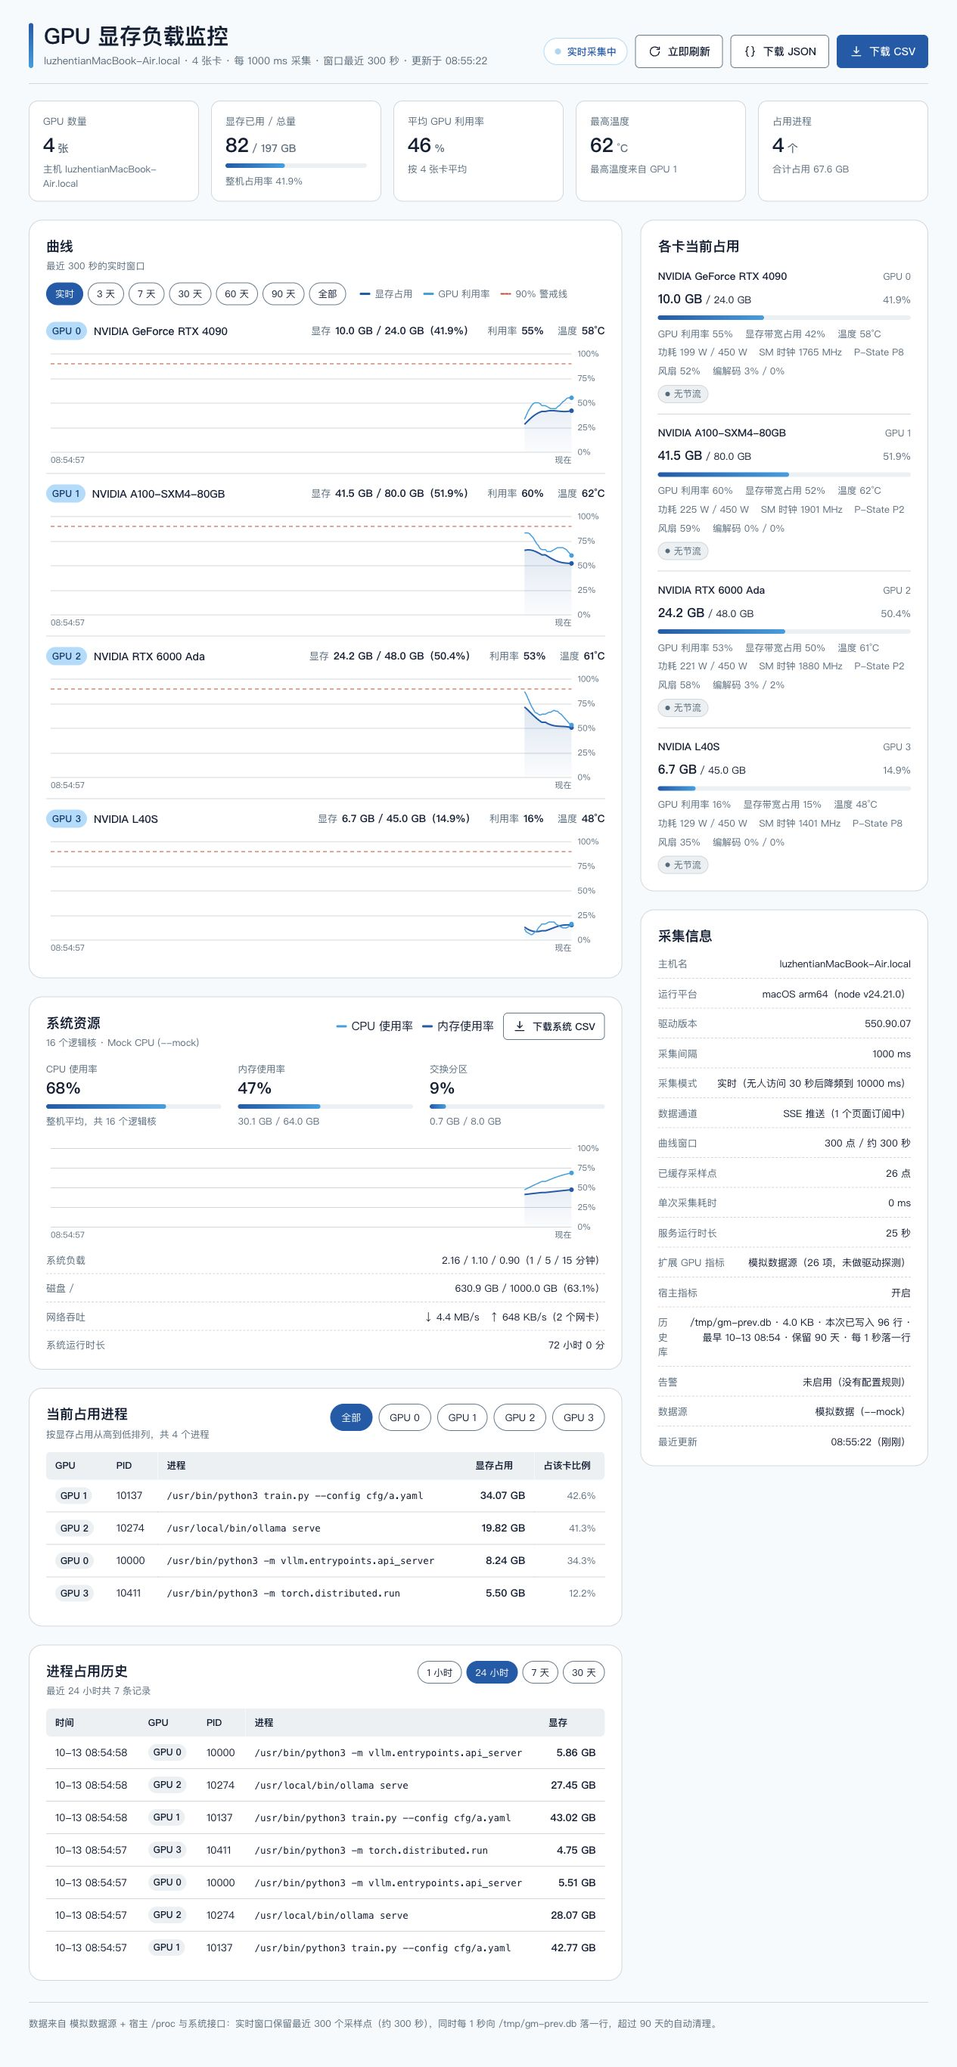
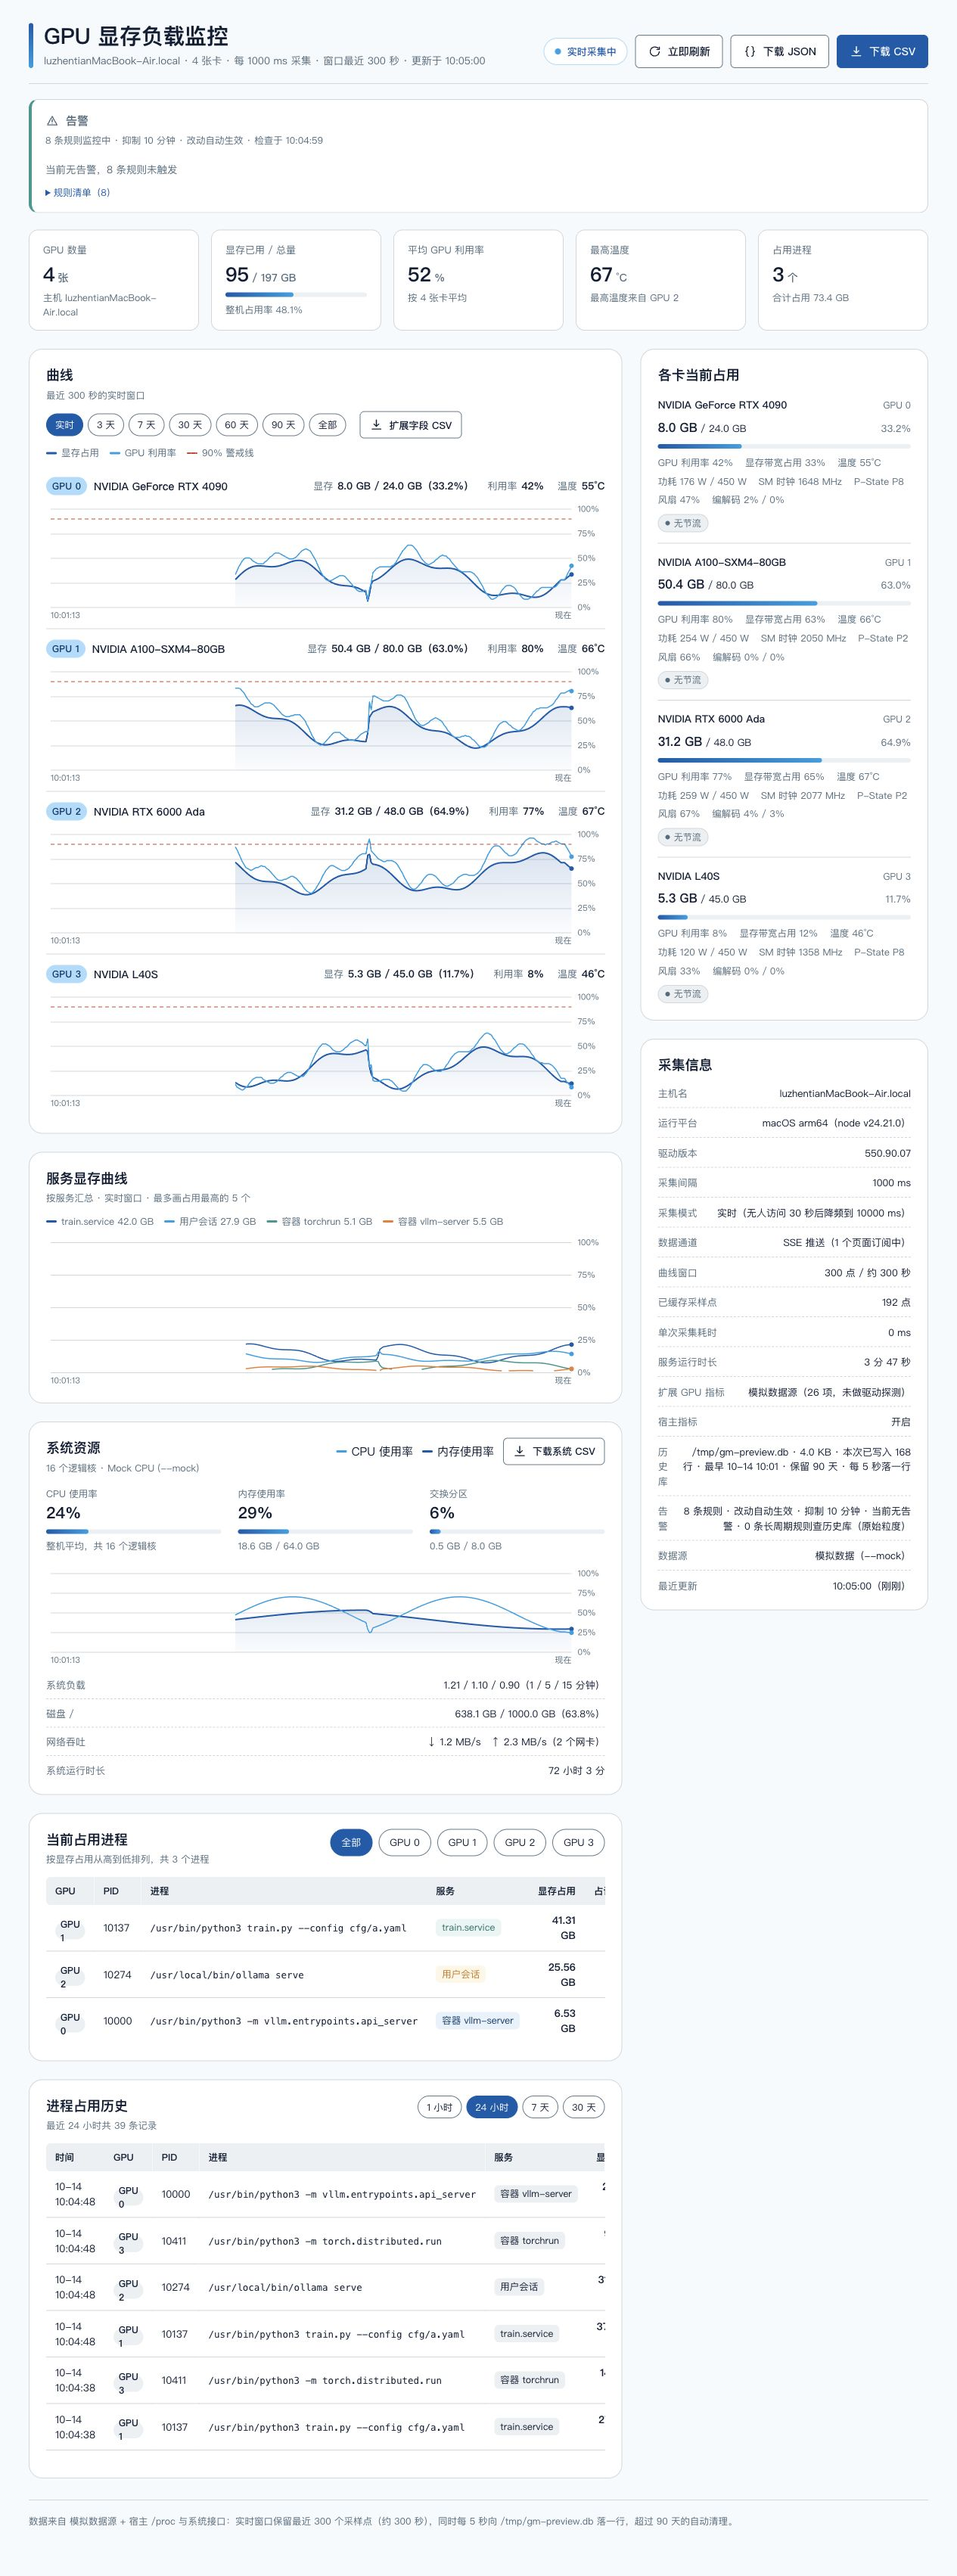
feat: 服务显存曲线；并修掉长区间曲线被挤到最右边的问题
- 新增「服务显存曲线」卡片：把占卡进程按服务（容器 / systemd 单元 / 用户会话）
  汇总成一条曲线，最多画占用最高的 5 个、其余并入「其他」，图例带当前值。
  服务退出时退到"最后一次见到的值"并标注，而不是显示 "--" 把整段信息丢掉。
  库里 service_sample 是上一轮修完才有数据的，这张图正是那次修复解锁的能力

- 修一处先前就有的渲染缺陷：曲线按"实时窗口 300 点"裁剪，横轴却按区间点数铺开，
  于是长区间被截成最后 300 点并挤到画布最右边。用 1501 个点的区间实测：
  时间轴左端显示的是"现在"（17:26）而不是区间起点（10:02），曲线只占右侧 20%
  还冲出边界。现在裁剪上限与横轴用同一个数

- 进程占用历史最多 200 条，不限高会把页面撑到上万像素（生产库已有 143 条），
  给表体加滚动上限

- 顺带修同类文案缺陷：告警未启用时页面显示"未启用（已关闭（--no-alerts））"，
  reason 自身不再带括号（和之前历史库那处是同一类问题）

- 更新 docs/preview.png：补上常驻告警面板、服务显存曲线、进程表的「服务」列

diff --git a/public/app.js b/public/app.js
@@ -39,6 +39,13 @@ const refs = {
   charts: $('charts'),
   chartsEmpty: $('charts-empty'),
   chartsSub: $('charts-sub'),
+  svcSub: $('svc-sub'),
+  svcLegend: $('svc-legend'),
+  svcChartWrap: $('svc-chart-wrap'),
+  svcCanvas: $('svc-canvas'),
+  svcEmpty: $('svc-empty'),
+  svcEmptyTitle: $('svc-empty-title'),
+  svcEmptyText: $('svc-empty-text'),
   rangePicker: $('range-picker'),
   emptyTitle: $('empty-title'),
   emptyText: $('empty-text'),
@@ -77,6 +84,9 @@ const state = {
   filter: 'all',
   series: new Map(),
   systemSeries: { t: [], cpu: [], mem: [] },
+  // 每一帧的原始服务汇总：服务的增删很频繁，边采边维护固定的曲线列表容易错位，
+  // 所以原样留着，渲染时再挑"这段时间占用最高的几个"
+  serviceRows: [],
   chartNodes: new Map(),
   chartSignature: '',
   cardNodes: new Map(),
@@ -251,7 +261,10 @@ function tempTone(temp) {
 
 /* ---------- 数据接入 ---------- */
 function trimToWindow(list) {
-  const overflow = list.t.length - state.windowSamples;
+  // 上限必须和 chartSlots() 用同一个数：横轴是按它铺开的，曲线却按实时窗口（300 点）裁的话，
+  // 长区间会被截成最后 300 点并挤到画布最右边——1501 个点的区间实测就是这样，
+  // 时间轴左端会显示"现在"而不是区间起点。
+  const overflow = list.t.length - chartSlots();
   if (overflow > 0) list.t.splice(0, overflow);
   return overflow;
 }
@@ -294,6 +307,12 @@ function appendSample(sample, { force = false } = {}) {
       series.cpu.splice(0, overflow);
       series.mem.splice(0, overflow);
     }
+  }
+  // 服务汇总按帧原样留着，渲染时再挑"这段时间占用最高的几个"——
+  // 服务的增删很频繁，边采边维护一份固定的曲线列表反而容易错位
+  state.serviceRows.push({ t: sample.t, services: sample.services || [] });
+  if (state.serviceRows.length > chartSlots()) {
+    state.serviceRows.splice(0, state.serviceRows.length - chartSlots());
   }
 }
 
@@ -917,6 +936,110 @@ function renderCharts() {
         { limit: HIGH_THRESHOLD, times: series.t },
       );
     }
+  }
+}
+
+/* ---------- 渲染：服务显存曲线 ---------- */
+const SERVICE_COLORS = ['#005bac', '#00a0e3', '#2f988c', '#ed7d31', '#8e6bbf', '#c87700'];
+const SERVICE_TOP_N = 5;
+const SERVICE_LABELS = { 未识别: '未识别（拿不到服务身份的进程）' };
+
+/**
+ * 从逐帧的服务汇总里挑出这段时间占用最高的几个，剩下的归入"其他"。
+ * 排序用区间内的峰值而不是当前值：某个服务刚降下来、但整段时间都吃得很凶，
+ * 按当前值排会被挤出去，反而看不出是谁在占。
+ */
+function buildServiceSeries(rows, topN = SERVICE_TOP_N) {
+  const peaks = new Map();
+  for (const row of rows) {
+    for (const entry of row.services) {
+      const share = entry.sharePct ?? 0;
+      if (share > (peaks.get(entry.service) ?? 0)) peaks.set(entry.service, share);
+    }
+  }
+  const names = [...peaks.entries()]
+    .sort((a, b) => b[1] - a[1])
+    .slice(0, topN)
+    .map(([name]) => name);
+
+  const lines = names.map((name, index) => ({
+    name,
+    color: SERVICE_COLORS[index % SERVICE_COLORS.length],
+    values: [],
+  }));
+  const other = { name: '其他', color: SERVICE_COLORS[SERVICE_COLORS.length - 1], values: [] };
+  const times = [];
+
+  for (const row of rows) {
+    times.push(row.t);
+    const byName = new Map(row.services.map((entry) => [entry.service, entry]));
+    let shown = 0;
+    for (const line of lines) {
+      const entry = byName.get(line.name);
+      const share = entry ? (entry.sharePct ?? 0) : null;
+      line.values.push(share);
+      if (share != null) shown += share;
+    }
+    // "其他"是"这一帧所有服务之和减去已画出来的部分"，这样它永远和总量对得上，
+    // 不会因为某个服务中途消失而算错
+    const total = row.services.reduce((sum, entry) => sum + (entry.sharePct ?? 0), 0);
+    const rest = total - shown;
+    other.values.push(rest > 0.05 ? rest : null);
+  }
+  if (other.values.some((value) => value != null)) lines.push(other);
+  return { lines, times };
+}
+
+function renderServiceChart() {
+  refs.svcSub.textContent = `按服务汇总 · ${rangeLabel()} · 最多画占用最高的 ${SERVICE_TOP_N} 个`;
+  const rows = state.serviceRows;
+  const usable = rows.filter((row) => row.services.length > 0);
+
+  if (usable.length === 0) {
+    refs.svcChartWrap.hidden = true;
+    refs.svcLegend.replaceChildren();
+    refs.svcEmpty.hidden = false;
+    refs.svcEmptyTitle.textContent = '还没有服务维度的数据';
+    refs.svcEmptyText.textContent = rows.length === 0
+      ? '曲线还没有采样点，稍等一两秒。'
+      : '这个区间里没有服务汇总记录。服务维度是后加的，更早写入的历史补不回来。';
+    return;
+  }
+  refs.svcChartWrap.hidden = false;
+  refs.svcEmpty.hidden = true;
+
+  const { lines, times } = buildServiceSeries(usable);
+  drawLines(refs.svcCanvas, lines, chartSlots(), { times });
+
+  // 图例带当前值：只给颜色分不清谁是谁。
+  // 服务可能在区间末尾已经退出了，这时退到"最后一次见到的值"并标注出来，
+  // 显示"--"等于把这条曲线整段的信息都丢了
+  const lastRow = usable[usable.length - 1];
+  const inLast = new Map(lastRow.services.map((entry) => [entry.service, entry]));
+  const lastSeen = new Map();
+  for (const row of usable) {
+    for (const entry of row.services) lastSeen.set(entry.service, entry);
+  }
+  const drawnNames = lines.filter((line) => line.name !== '其他').map((line) => line.name);
+  const shownMemInLast = drawnNames.reduce((sum, name) => sum + (inLast.get(name)?.memMiB || 0), 0);
+  const totalMemInLast = lastRow.services.reduce((sum, entry) => sum + (entry.memMiB || 0), 0);
+
+  refs.svcLegend.replaceChildren();
+  for (const line of lines) {
+    const item = document.createElement('span');
+    item.className = 'legend__item';
+    const swatch = document.createElement('span');
+    swatch.className = 'legend__swatch';
+    swatch.style.background = line.color;
+    const isOther = line.name === '其他';
+    const gone = !isOther && !inLast.has(line.name);
+    const entry = isOther ? null : (inLast.get(line.name) || lastSeen.get(line.name));
+    const mem = isOther ? Math.max(0, totalMemInLast - shownMemInLast) : (entry?.memMiB ?? null);
+    const text = document.createElement('span');
+    text.textContent = `${SERVICE_LABELS[line.name] || line.name} ${mem == null ? '--' : fmtGiB(mem)}`
+      + (gone ? '（区间末尾已退出）' : '');
+    item.append(swatch, text);
+    refs.svcLegend.appendChild(item);
   }
 }
 
@@ -1560,6 +1683,7 @@ function render() {
     : '扩展字段只存在历史库里，启用历史库后可用';
   renderKpis();
   renderCharts();
+  renderServiceChart();
   renderSystemCard();
   renderGpuCards();
   renderProcFilter();
@@ -1614,6 +1738,7 @@ function renderRangePicker() {
 function resetSeries() {
   state.series.clear();
   state.systemSeries = { t: [], cpu: [], mem: [] };
+  state.serviceRows = [];
   // 让曲线与卡片节点按新的数据重建，避免残留上一次的卡列表
   state.chartSignature = '';
   state.cardSignature = '';
@@ -1693,6 +1818,7 @@ window.addEventListener('resize', () => {
   window.clearTimeout(resizeTimer);
   resizeTimer = window.setTimeout(() => {
     renderCharts();
+    renderServiceChart();
     renderSystemCard();
   }, 180);
 });

diff --git a/public/index.html b/public/index.html
@@ -158,6 +158,24 @@
         </div>
       </section>
 
+      <section class="card" aria-labelledby="svc-h">
+        <div class="card__head card__head--stack">
+          <div>
+            <h2 class="card__title" id="svc-h">服务显存曲线</h2>
+            <p class="card__sub" id="svc-sub">按服务汇总，最多画占用最高的 5 个</p>
+          </div>
+          <div class="legend" id="svc-legend"></div>
+        </div>
+        <div class="chart__canvas-wrap chart__canvas-wrap--tall" id="svc-chart-wrap">
+          <canvas class="chart__canvas" id="svc-canvas" role="img" aria-label="按服务汇总的显存占用曲线"></canvas>
+        </div>
+        <div class="state-block" id="svc-empty" hidden>
+          <svg class="icon state-block__icon" aria-hidden="true"><use href="#icon-stack"></use></svg>
+          <p class="state-block__title" id="svc-empty-title">还没有服务维度的数据</p>
+          <p class="state-block__text" id="svc-empty-text"></p>
+        </div>
+      </section>
+
       <section class="card" aria-labelledby="sys-h">
         <div class="card__head">
           <div>
@@ -224,7 +242,7 @@
           </div>
           <div class="range-picker" id="proc-hist-range" role="group" aria-label="选择进程历史的时间范围"></div>
         </div>
-        <div class="table-wrap" id="proc-hist-wrap" hidden>
+        <div class="table-wrap table-wrap--scroll" id="proc-hist-wrap" hidden>
           <table class="table" id="proc-hist-table">
             <caption class="visually-hidden">历史进程占用记录，按时间从新到旧</caption>
             <thead>

diff --git a/src/alerts/runtime.js b/src/alerts/runtime.js
@@ -73,7 +73,7 @@ export function createAlertsRuntime({
 
     if (!loaded.config) {
       const reason = loaded.error
-        || (options.alerts === false ? '已关闭（--no-alerts）'
+        || (options.alerts === false ? '启动时带了 --no-alerts'
           : loaded.disabled ? '配置里 enabled=false'
             : loaded.missing ? `未找到 ${options.alertsPath}` : '未启用');
       if (!initial && runtime.engine) {
@@ -144,7 +144,8 @@ export function createAlertsRuntime({
         reason: runtime.engine
           ? null
           : (runtime.error
-            || (options.alerts === false ? '已关闭（--no-alerts）'
+            // 这条会被界面包在"未启用（…）"里，所以自身不要再带括号
+            || (options.alerts === false ? '启动时带了 --no-alerts'
               : runtime.missing ? `未找到 ${options.alertsPath}`
                 : runtime.disabled ? '配置里 enabled=false' : '未启用')),
         reloadedAt: runtime.reloadedAt,

diff --git a/public/styles.css b/public/styles.css
@@ -292,6 +292,7 @@ h1, h2, p, dl, dd, dt, figure { margin: 0; }
 .chart__stat[data-tone="danger"] b { color: var(--jf-color-danger); }
 
 .chart__canvas-wrap { position: relative; margin-top: 8px; height: 158px; }
+.chart__canvas-wrap--tall { height: 200px; }
 .chart__canvas { display: block; width: 100%; height: 100%; }
 
 /* ---------- 状态块 ---------- */
@@ -316,6 +317,8 @@ h1, h2, p, dl, dd, dt, figure { margin: 0; }
 
 /* ---------- 表格 ---------- */
 .table-wrap { margin-top: 14px; overflow-x: auto; }
+/* 进程历史最多能带到 200 条，不设上限的话这张表会把页面撑到上万像素高 */
+.table-wrap--scroll { max-height: 420px; overflow-y: auto; }
 .table { width: 100%; border-collapse: collapse; font-size: 13.5px; }
 .table thead th {
   position: sticky; top: 0; z-index: 1;

diff --git a/README.md b/README.md
@@ -7,6 +7,7 @@
 ## 功能
 
 - 一机多卡实时曲线：每张卡一条「显存占用」曲线 + 一条「GPU 利用率」曲线，窗口默认 300 点（约 5 分钟）
+- **服务显存曲线**：把占卡进程按服务（容器 / systemd 单元 / 用户会话）汇总成一条曲线，最多画占用最高的 5 个、其余并入「其他」。一张卡被多个服务共用时，这张图能回答"是谁在什么时候把显存吃上去的"，比整卡百分比有用得多
 - 当前占用：整机显存已用/总量、平均利用率、最高温度，以及每张卡的进度条明细
 - 占用进程列表：PID / 进程名 / **服务归属** / 显存占用 / 占该卡比例，可按 GPU 过滤（点右上角的 chip）
 - 进程占用历史：按"进程身份变化 + 每 5 分钟快照"留档，可以回答"谁在什么时候占上了哪张卡"（可选 1 小时 / 24 小时 / 7 天 / 30 天）
